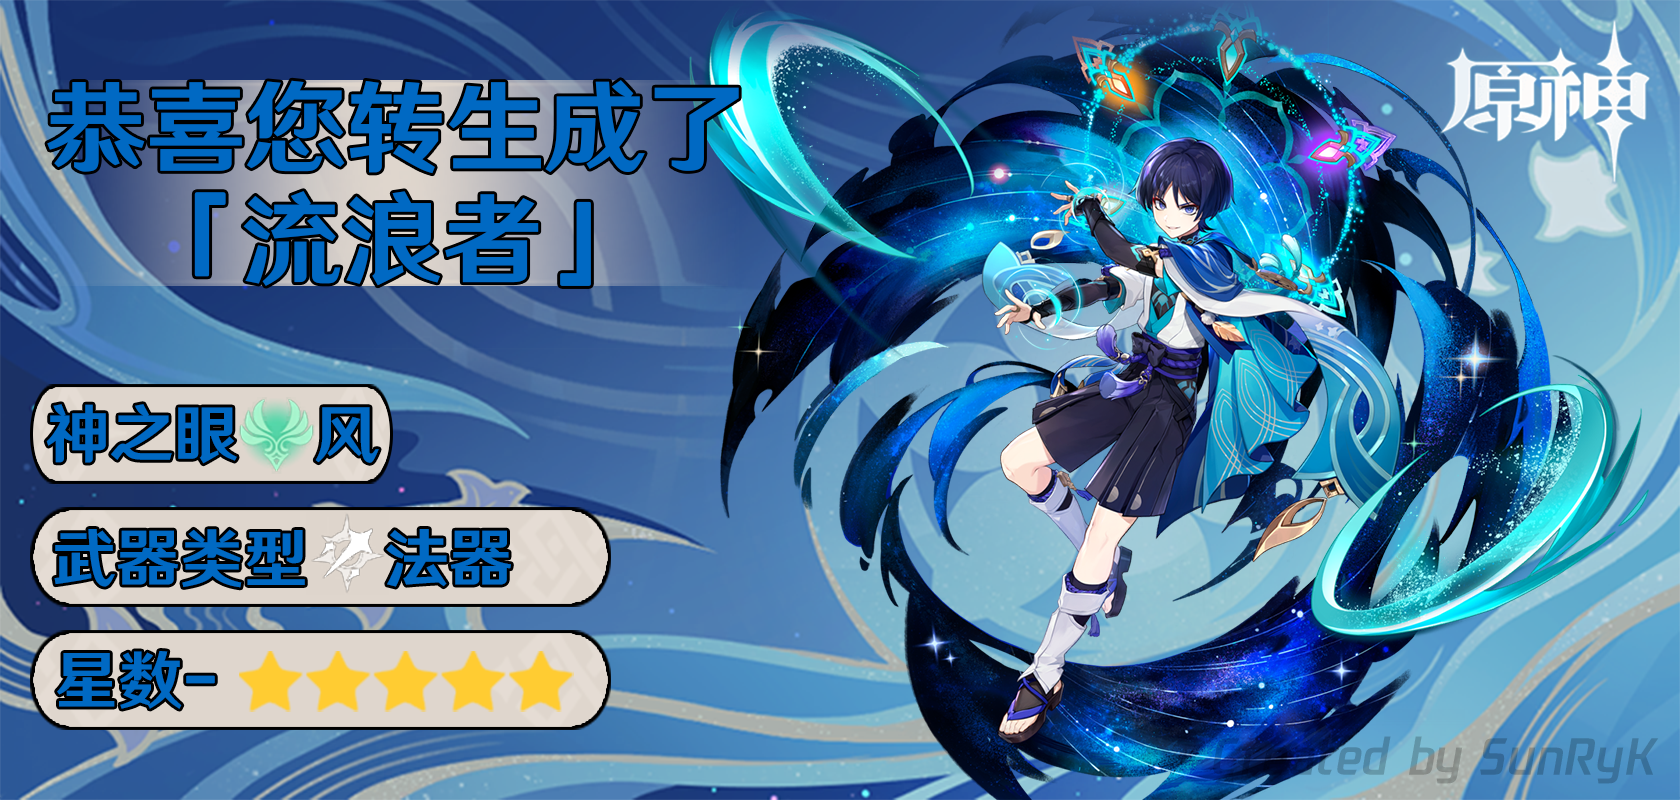
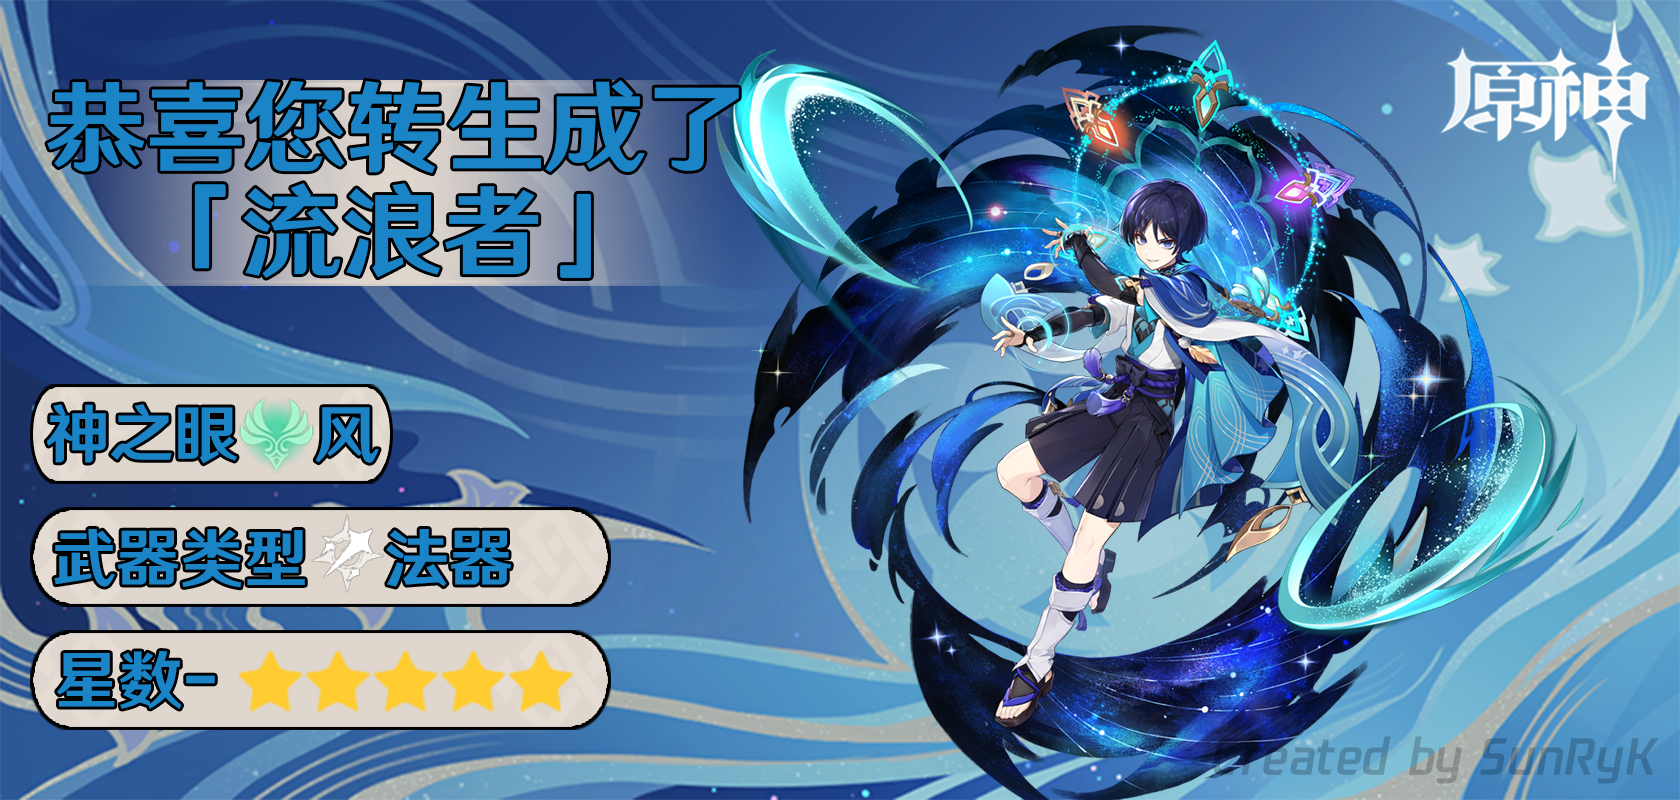
艾尔海森和瑶瑶的资源

diff --git a/apps/genshinrelife.js b/apps/genshinrelife.js
@@ -14,7 +14,7 @@ export class genshinrelife extends plugin {
       priority: 1680,
       rule: [
         {
-          reg: '^#*转生$',
+          reg: '^#*(原神)?转生$',
           fnc: 'relife'
         }
       ]
@@ -35,7 +35,7 @@ export class genshinrelife extends plugin {
       }
     }, cdtime * 60 * 1000)
     let file = pluginPath + '/resources/img/GenshinRelife/'
-    let number = Math.floor(Math.random() * 60.99 + 1)
+    let number = Math.floor(Math.random() * 62.99 + 1)
 
     // 发送消息
     e.reply(segment.image(file + number.toString() + '.png'))

diff --git a/CHANGELOG.md b/CHANGELOG.md
@@ -1,3 +1,8 @@
+#2.33.3
+* 更新`艾尔海森、瑶瑶`资源
+* `转生`同上
+* 流浪者转生资源立绘更新
+
 # 2.33.2
 * 十连绘制界面指定字体文件
 * 卡池更新`流浪者、珐露珊`
